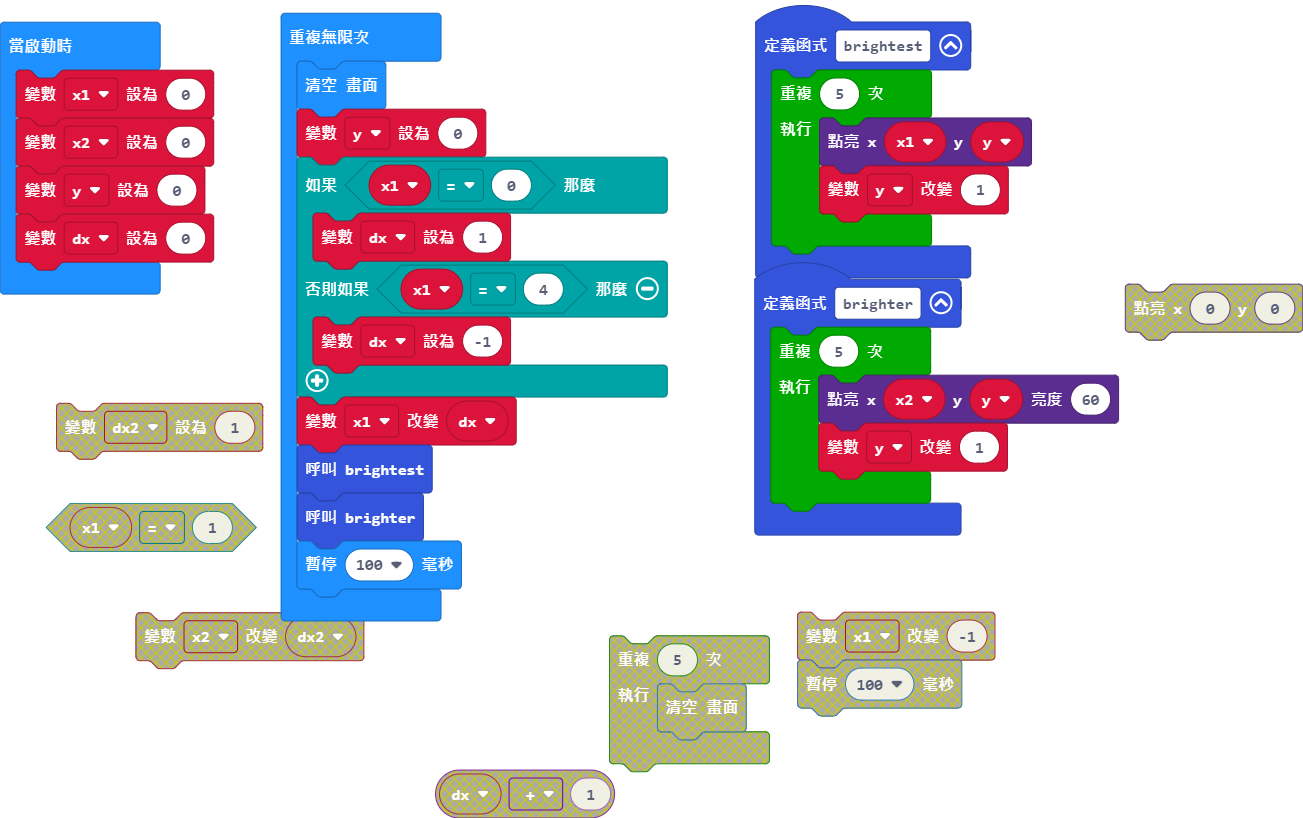
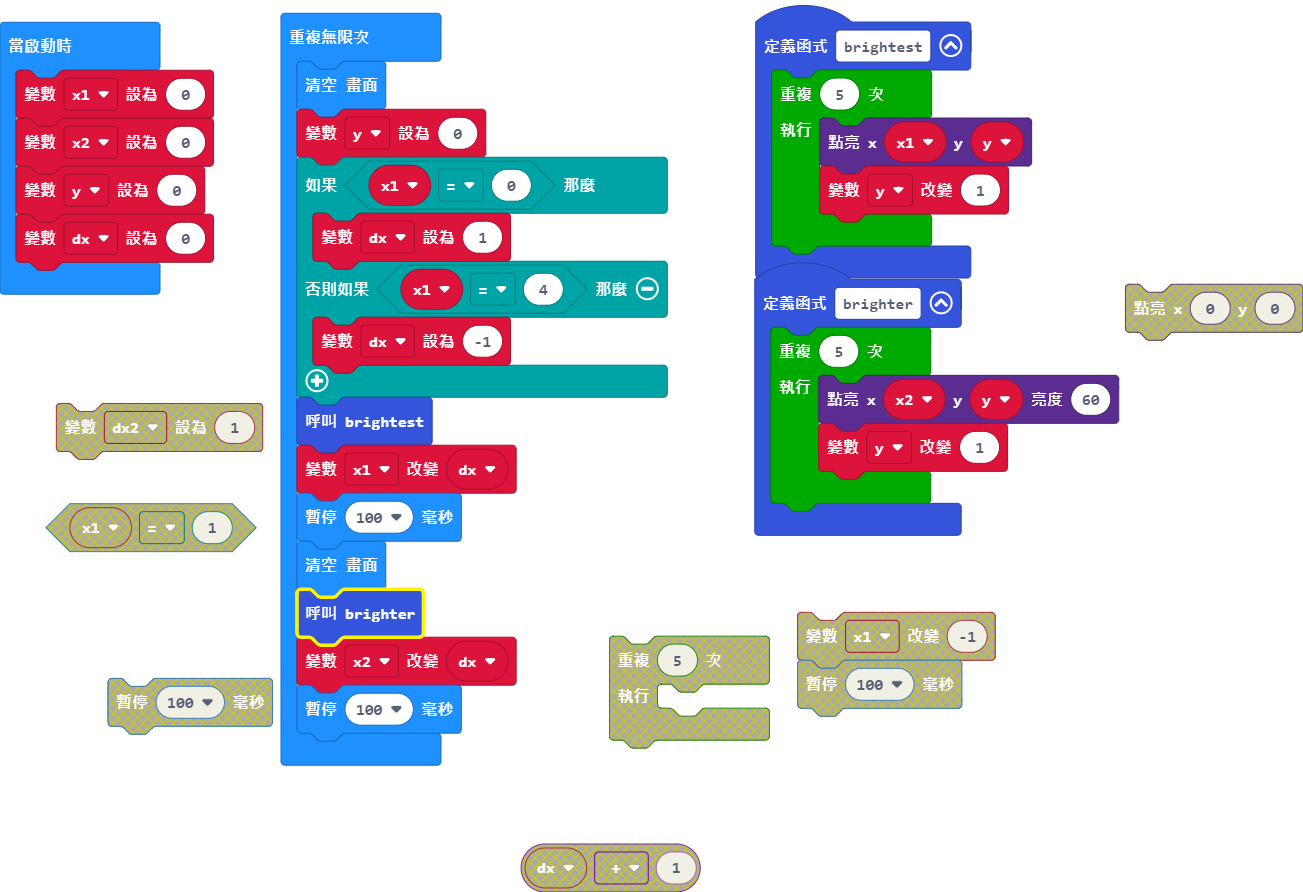
更新 main.blocks, main.ts

diff --git a/main.ts b/main.ts
@@ -25,8 +25,11 @@ basic.forever(function () {
     } else if (x1 == 4) {
         dx = -1
     }
-    x1 += dx
     brightest()
+    x1 += dx
+    basic.pause(100)
+    basic.clearScreen()
     brighter()
+    x2 += dx
     basic.pause(100)
 })
